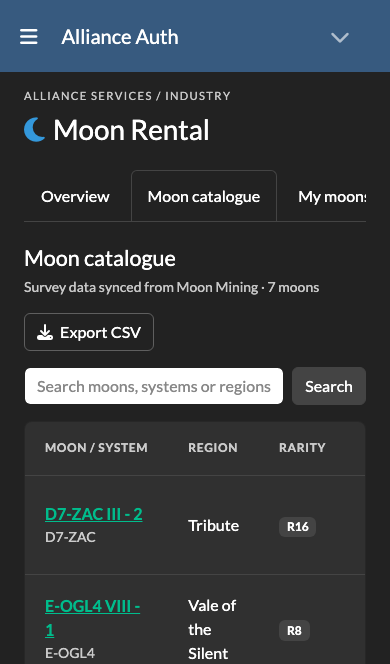
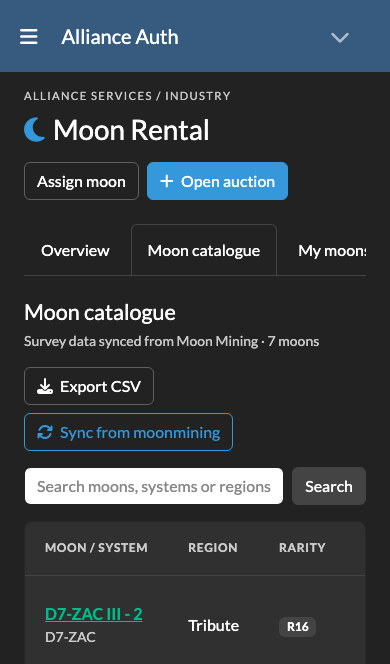
Restrict moon catalogue and CSV export to managers and admins (#6)

diff --git a/moon_rental/templates/moon_rental/auction.html b/moon_rental/templates/moon_rental/auction.html
@@ -4,6 +4,6 @@
 <div class="d-flex justify-content-between align-items-start flex-wrap gap-3 mt-3 mb-4"><div><span class="badge {% if bidding_open %}text-bg-success{% else %}text-bg-secondary{% endif %} mb-2">{% if bidding_open %}Bidding open{% elif auction.settled_at %}Awarded{% else %}Bidding closed · awaiting settlement{% endif %}</span><h2 class="h3">{{ auction.title }}</h2><p class="text-body-secondary mb-0">{{ auction.duration_months }} months · {{ auction.get_billing_mode_display }} · Minimum {{ auction.minimum_bid|isk }} ISK</p></div><div class="card"><div class="card-body py-2 px-3"><div class="small text-body-secondary">Bidding closes</div><strong>{{ auction.ends_at|date:"d M Y · H:i" }} UTC</strong></div></div></div>
 <div class="alert alert-info small">Each moon is awarded to its highest bidder at close. Your bid is {% if auction.billing_mode == 'monthly' %}the monthly rent{% else %}the total rent for the full term{% endif %}. Bids are binding and cannot be withdrawn.</div>
 <form method="get" class="card mb-4"><div class="card-body p-4"><h3 class="h5 mb-3">Find moons</h3>{% include "moon_rental/moon_filters.html" %}<div class="small text-body-secondary mt-3">{{ lots.paginator.count }} moon{{ lots.paginator.count|pluralize }} match</div></div></form>
-<div class="row g-4">{% for row in rows %}<div class="col-md-6 col-xxl-4"><article class="card h-100"><div class="card-body p-4"><div class="d-flex justify-content-between align-items-center mb-2"><span class="small text-body-secondary">{{ row.lot.moon.region }}</span><span class="badge text-bg-secondary">R{{ row.lot.moon.rarity }}</span></div><h3 class="h5 mb-1"><a class="text-reset" href="{% url 'moon_rental:moon' row.lot.moon.pk %}">{{ row.lot.moon.name }}</a></h3><div class="small text-body-secondary mb-4">{{ row.lot.moon.solar_system }}{% if row.lot.moon.constellation %} · {{ row.lot.moon.constellation }}{% endif %} · Survey composition</div>{% include "moon_rental/composition.html" with moon=row.lot.moon %}<div class="mr-bid-box rounded border p-3 mt-4"><div class="small text-body-secondary">{% if auction.settled_at %}Winning bid{% else %}Highest bid{% endif %}</div><div class="h4 mr-numeric mt-1 mb-1">{% if row.top %}{{ row.top.amount|compact_isk }} <small class="fs-6">ISK</small>{% else %}No bids yet{% endif %}</div>{% if row.top %}<div class="small text-body-secondary mr-numeric mb-2">{{ row.top.amount|isk }} ISK</div>{% endif %}<div class="small">{% if row.top %}<i class="fas fa-user me-1 text-body-secondary" aria-hidden="true"></i>{{ row.top.bidder }}{% else %}Be the first to bid{% endif %}<span class="text-body-secondary float-end">{{ row.count }} bid{{ row.count|pluralize }}</span></div></div>{% if bidding_open %}<form method="post" action="{% url 'moon_rental:bid' row.lot.pk %}?{% moon_query %}" class="mt-3">{% csrf_token %}<label class="form-label small" for="bid-{{ row.lot.pk }}">Your {% if auction.billing_mode == 'monthly' %}monthly {% endif %}bid (ISK)</label><div class="input-group"><input class="form-control mr-numeric" id="bid-{{ row.lot.pk }}" name="amount" type="number" data-isk-input inputmode="decimal" min="{{ auction.minimum_bid }}" step="0.01" placeholder="Enter amount" required><button class="btn btn-info" type="submit">Place bid</button></div></form>{% endif %}</div></article></div>{% empty %}<div class="col-12"><p class="text-body-secondary">No moons match these filters. Clear or adjust the filters to browse again.</p></div>{% endfor %}</div>
+<div class="row g-4">{% for row in rows %}<div class="col-md-6 col-xxl-4"><article class="card h-100"><div class="card-body p-4"><div class="d-flex justify-content-between align-items-center mb-2"><span class="small text-body-secondary">{{ row.lot.moon.region }}</span><span class="badge text-bg-secondary">R{{ row.lot.moon.rarity }}</span></div><h3 class="h5 mb-1">{% if rental_manager %}<a class="text-reset" href="{% url 'moon_rental:moon' row.lot.moon.pk %}">{{ row.lot.moon.name }}</a>{% else %}{{ row.lot.moon.name }}{% endif %}</h3><div class="small text-body-secondary mb-4">{{ row.lot.moon.solar_system }}{% if row.lot.moon.constellation %} · {{ row.lot.moon.constellation }}{% endif %} · Survey composition</div>{% include "moon_rental/composition.html" with moon=row.lot.moon %}<div class="mr-bid-box rounded border p-3 mt-4"><div class="small text-body-secondary">{% if auction.settled_at %}Winning bid{% else %}Highest bid{% endif %}</div><div class="h4 mr-numeric mt-1 mb-1">{% if row.top %}{{ row.top.amount|compact_isk }} <small class="fs-6">ISK</small>{% else %}No bids yet{% endif %}</div>{% if row.top %}<div class="small text-body-secondary mr-numeric mb-2">{{ row.top.amount|isk }} ISK</div>{% endif %}<div class="small">{% if row.top %}<i class="fas fa-user me-1 text-body-secondary" aria-hidden="true"></i>{{ row.top.bidder }}{% else %}Be the first to bid{% endif %}<span class="text-body-secondary float-end">{{ row.count }} bid{{ row.count|pluralize }}</span></div></div>{% if bidding_open %}<form method="post" action="{% url 'moon_rental:bid' row.lot.pk %}?{% moon_query %}" class="mt-3">{% csrf_token %}<label class="form-label small" for="bid-{{ row.lot.pk }}">Your {% if auction.billing_mode == 'monthly' %}monthly {% endif %}bid (ISK)</label><div class="input-group"><input class="form-control mr-numeric" id="bid-{{ row.lot.pk }}" name="amount" type="number" data-isk-input inputmode="decimal" min="{{ auction.minimum_bid }}" step="0.01" placeholder="Enter amount" required><button class="btn btn-info" type="submit">Place bid</button></div></form>{% endif %}</div></article></div>{% empty %}<div class="col-12"><p class="text-body-secondary">No moons match these filters. Clear or adjust the filters to browse again.</p></div>{% endfor %}</div>
 {% include "moon_rental/auction_pagination.html" %}
 {% endblock %}

diff --git a/moon_rental/templates/moon_rental/rentals.html b/moon_rental/templates/moon_rental/rentals.html
@@ -1,2 +1,2 @@
 {% extends "moon_rental/base.html" %}{% load moon_rental %}
-{% block rental_content %}<h2 class="h4">{{ title }}</h2><p class="text-body-secondary small mb-4">Your lease terms, award history and payment schedule.</p><div class="card"><div class="table-responsive"><table class="table align-middle mb-0"><thead><tr><th>Moon</th>{% if rental_manager %}<th>Renter</th>{% endif %}<th>Rent</th><th>Lease period (UTC)</th><th>Source</th><th>Status</th>{% if rental_admin %}<th>Admin</th>{% endif %}</tr></thead><tbody>{% for rental in rentals %}<tr><td><a href="{% url 'moon_rental:moon' rental.moon_id %}">{{ rental.moon.name }}</a><div class="small text-body-secondary">{{ rental.moon.region }}</div></td>{% if rental_manager %}<td>{{ rental.renter }}</td>{% endif %}<td class="mr-numeric">{{ rental.price|isk }} ISK<div class="small text-body-secondary">{{ rental.get_billing_mode_display }}</div></td><td class="small">{{ rental.starts_on|date:"d M Y" }} → {{ rental.ends_on|date:"d M Y" }}<div class="text-body-secondary">End date exclusive</div></td><td class="small">{% if rental.auction_lot %}<a href="{% url 'moon_rental:auction' rental.auction_lot.auction_id %}">Auction award</a>{% else %}Direct assignment{% endif %}</td><td>{% if rental.ended_at or rental.ends_on <= now.date %}<span class="badge text-bg-secondary">Ended</span>{% else %}<span class="badge text-bg-success">Active</span>{% endif %}</td>{% if rental_admin %}<td>{% if not rental.ended_at and rental.ends_on > now.date %}<a class="btn btn-sm btn-outline-warning" href="{% url 'moon_rental:end_assignment' rental.pk %}">End / correct</a>{% endif %}</td>{% endif %}</tr>{% empty %}<tr><td colspan="7" class="py-5 text-center text-body-secondary">No rentals yet. Moons you win will appear here after settlement.</td></tr>{% endfor %}</tbody></table></div></div>{% include "moon_rental/pagination.html" with items=rentals %}{% endblock %}
+{% block rental_content %}<h2 class="h4">{{ title }}</h2><p class="text-body-secondary small mb-4">Your lease terms, award history and payment schedule.</p><div class="card"><div class="table-responsive"><table class="table align-middle mb-0"><thead><tr><th>Moon</th>{% if rental_manager %}<th>Renter</th>{% endif %}<th>Rent</th><th>Lease period (UTC)</th><th>Source</th><th>Status</th>{% if rental_admin %}<th>Admin</th>{% endif %}</tr></thead><tbody>{% for rental in rentals %}<tr><td>{% if rental_manager %}<a href="{% url 'moon_rental:moon' rental.moon_id %}">{{ rental.moon.name }}</a>{% else %}{{ rental.moon.name }}{% endif %}<div class="small text-body-secondary">{{ rental.moon.region }}</div></td>{% if rental_manager %}<td>{{ rental.renter }}</td>{% endif %}<td class="mr-numeric">{{ rental.price|isk }} ISK<div class="small text-body-secondary">{{ rental.get_billing_mode_display }}</div></td><td class="small">{{ rental.starts_on|date:"d M Y" }} → {{ rental.ends_on|date:"d M Y" }}<div class="text-body-secondary">End date exclusive</div></td><td class="small">{% if rental.auction_lot %}<a href="{% url 'moon_rental:auction' rental.auction_lot.auction_id %}">Auction award</a>{% else %}Direct assignment{% endif %}</td><td>{% if rental.ended_at or rental.ends_on <= now.date %}<span class="badge text-bg-secondary">Ended</span>{% else %}<span class="badge text-bg-success">Active</span>{% endif %}</td>{% if rental_admin %}<td>{% if not rental.ended_at and rental.ends_on > now.date %}<a class="btn btn-sm btn-outline-warning" href="{% url 'moon_rental:end_assignment' rental.pk %}">End / correct</a>{% endif %}</td>{% endif %}</tr>{% empty %}<tr><td colspan="7" class="py-5 text-center text-body-secondary">No rentals yet. Moons you win will appear here after settlement.</td></tr>{% endfor %}</tbody></table></div></div>{% include "moon_rental/pagination.html" with items=rentals %}{% endblock %}

diff --git a/moon_rental/templates/moon_rental/base.html b/moon_rental/templates/moon_rental/base.html
@@ -10,7 +10,7 @@
     </div>
     <nav class="nav nav-tabs mb-4" aria-label="Moon Rental">
         <a class="nav-link {% if request.resolver_match.url_name == 'index' %}active{% endif %}" href="{% url 'moon_rental:index' %}">Overview</a>
-        <a class="nav-link {% if request.resolver_match.url_name == 'moons' or request.resolver_match.url_name == 'moon' %}active{% endif %}" href="{% url 'moon_rental:moons' %}">Moon catalogue</a>
+        {% if rental_manager %}<a class="nav-link {% if request.resolver_match.url_name == 'moons' or request.resolver_match.url_name == 'moon' %}active{% endif %}" href="{% url 'moon_rental:moons' %}">Moon catalogue</a>{% endif %}
         <a class="nav-link {% if request.resolver_match.url_name == 'my_moons' %}active{% endif %}" href="{% url 'moon_rental:my_moons' %}">My moons</a>
         <a class="nav-link {% if request.resolver_match.url_name == 'invoices' %}active{% endif %}" href="{% url 'moon_rental:invoices' %}">Invoices</a>
         {% if rental_manager %}<a class="nav-link {% if request.resolver_match.url_name == 'rentals' %}active{% endif %}" href="{% url 'moon_rental:rentals' %}">Assignments</a>{% endif %}

diff --git a/tests/test_catalogue_export.py b/tests/test_catalogue_export.py
@@ -21,7 +21,7 @@ def read_export(response):
     return list(csv.DictReader(io.StringIO(content.decode("utf-8-sig"))))
 
 
-@pytest.mark.parametrize("user_fixture", ["pilot", "manager", "admin_user"])
+@pytest.mark.parametrize("user_fixture", ["manager", "admin_user"])
 def test_catalogue_users_can_download_csv(client, request, moon, user_fixture):
     client.force_login(request.getfixturevalue(user_fixture))
     response = client.get(reverse("moon_rental:moon_export"))
@@ -37,12 +37,12 @@ def test_export_requires_catalogue_access(client, moon):
     assert client.get(url).status_code == 403
 
 
-def test_csv_preserves_unicode_quotes_precision_and_utc(client, pilot, moon):
+def test_csv_preserves_unicode_quotes_precision_and_utc(client, manager, moon):
     moon.name = 'Étoile, "Alpha"\nIV - 12'
     moon.estimated_value = Decimal("123456789012.34")
     moon.composition = [{"type_id": 45506, "name": 'Ore, "rare"', "percent": 35.1234}]
     moon.save()
-    client.force_login(pilot)
+    client.force_login(manager)
     with override("fr"), timezone.override("Europe/Brussels"):
         rows = read_export(client.get(reverse("moon_rental:moon_export")))
     assert rows == [
@@ -61,11 +61,11 @@ def test_csv_preserves_unicode_quotes_precision_and_utc(client, pilot, moon):
     ]
 
 
-def test_export_includes_every_page_and_unknown_survey_values(client, pilot, moon):
+def test_export_includes_every_page_and_unknown_survey_values(client, manager, moon):
     Moon.objects.bulk_create(
         [Moon(id=i, name=f"Extra {i:02}", synced_at=timezone.now()) for i in range(100, 145)]
     )
-    client.force_login(pilot)
+    client.force_login(manager)
     page = client.get(reverse("moon_rental:moons"))
     assert len(page.context["moons"]) == 40
     rows = read_export(client.get(reverse("moon_rental:moon_export"), {"page": "2"}))
@@ -78,17 +78,17 @@ def test_export_includes_every_page_and_unknown_survey_values(client, pilot, moo
 
 
 @pytest.mark.parametrize("query", ["J-A5QD IV", "j-a5qd", "  Vale of the Silent  ", "no match"])
-def test_export_matches_catalogue_search(client, pilot, moon, query):
+def test_export_matches_catalogue_search(client, manager, moon, query):
     Moon.objects.create(id=2, name="Other moon", region="Tribute", synced_at=timezone.now())
-    client.force_login(pilot)
+    client.force_login(manager)
     data = {"q": query}
     page = client.get(reverse("moon_rental:moons"), data)
     rows = read_export(client.get(reverse("moon_rental:moon_export"), data))
     assert [row["Moon ID"] for row in rows] == [str(m.pk) for m in page.context["moons"]]
 
 
-def test_empty_export_still_contains_column_headers(client, pilot):
-    client.force_login(pilot)
+def test_empty_export_still_contains_column_headers(client, manager):
+    client.force_login(manager)
     response = client.get(reverse("moon_rental:moon_export"))
     content = b"".join(response.streaming_content).decode("utf-8-sig")
     rows = list(csv.reader(io.StringIO(content)))
@@ -104,7 +104,7 @@ def test_export_status_matches_catalogue(client, pilot, manager, wallet, auction
     Moon.objects.create(id=4, name="Free moon", synced_at=timezone.now())
     # Existing leases and auction reservations take precedence over source availability.
     Moon.objects.filter(pk__in=[moon.pk, rented.pk]).update(available=False)
-    client.force_login(pilot)
+    client.force_login(manager)
     rows = read_export(client.get(reverse("moon_rental:moon_export")))
     assert {row["Moon ID"]: row["Status"] for row in rows} == {
         str(moon.pk): "In auction",
@@ -117,22 +117,22 @@ def test_export_status_matches_catalogue(client, pilot, manager, wallet, auction
 @pytest.mark.parametrize(
     "text", ["=1+1", "+1+1", "-1+1", "@SUM(1)", "  =1", "\tname", "\rname", "\nname"]
 )
-def test_formula_like_text_is_escaped(client, pilot, moon, text):
+def test_formula_like_text_is_escaped(client, manager, moon, text):
     moon.name = text
     moon.solar_system = text
     moon.region = text
     moon.constellation = text
     moon.composition = [{"type_id": 45506, "name": text, "percent": 35}]
     moon.save()
-    client.force_login(pilot)
+    client.force_login(manager)
     row = read_export(client.get(reverse("moon_rental:moon_export")))[0]
     for column in ("Moon", "Solar system", "Region", "Constellation"):
         assert row[column] == "'" + text
     assert row["Survey composition"] == f"'{text}: 35%"
 
 
-def test_export_link_preserves_search_without_page(client, pilot, moon):
-    client.force_login(pilot)
+def test_export_link_preserves_search_without_page(client, manager, moon):
+    client.force_login(manager)
     response = client.get(reverse("moon_rental:moons"), {"q": "J-A5QD & +", "page": "2"})
     url = reverse("moon_rental:moon_export") + "?q=J-A5QD%20%26%20%2B"
     assert f'href="{url}"'.encode() in response.content

diff --git a/tests/test_catalogue_permissions.py b/tests/test_catalogue_permissions.py
@@ -1,0 +1,77 @@
+import pytest
+from django.contrib.auth.models import User
+from django.urls import reverse
+
+from moon_rental.services.rentals import assign_moon
+
+pytestmark = pytest.mark.django_db
+
+
+def catalogue_url(name, moon):
+    return reverse(f"moon_rental:{name}", args=[moon.pk] if name == "moon" else [])
+
+
+@pytest.mark.parametrize("name", ["moons", "moon", "moon_export"])
+@pytest.mark.parametrize("role", ["manager", "admin_user", "superuser"])
+def test_catalogue_is_accessible_to_managers_and_admins(client, request, moon, name, role):
+    user = (
+        User.objects.create_superuser("superuser", password=None)
+        if role == "superuser"
+        else request.getfixturevalue(role)
+    )
+    client.force_login(user)
+    response = client.get(catalogue_url(name, moon))
+    assert response.status_code == 200
+    response.close()
+
+
+@pytest.mark.parametrize("name", ["moons", "moon", "moon_export"])
+@pytest.mark.parametrize("role", ["member", "staff", "outsider"])
+def test_catalogue_direct_urls_are_forbidden_without_manager_permission(
+    client, pilot, moon, name, role
+):
+    if role == "staff":
+        pilot.is_staff = True
+        pilot.save(update_fields=["is_staff"])
+    user = User.objects.create_user("outsider") if role == "outsider" else pilot
+    client.force_login(user)
+    url = catalogue_url(name, moon)
+    assert client.get(url).status_code == 403
+    assert client.post(url).status_code == 403
+
+
+@pytest.mark.parametrize("name", ["moons", "moon", "moon_export"])
+def test_anonymous_and_inactive_managers_cannot_access_catalogue(client, manager, moon, name):
+    url = catalogue_url(name, moon)
+    assert client.get(url).status_code == 302
+    manager.is_active = False
+    manager.save(update_fields=["is_active"])
+    client.force_login(manager)
+    assert client.get(url).status_code == 302
+
+
+@pytest.mark.parametrize("role", ["pilot", "manager", "admin_user"])
+def test_auction_catalogue_links_follow_permissions(client, request, auction, moon, role):
+    client.force_login(request.getfixturevalue(role))
+    response = client.get(reverse("moon_rental:auction", args=[auction.pk]))
+    assert response.status_code == 200
+    assert moon.name.encode() in response.content
+    assert b"Loparite" in response.content
+    for url in (reverse("moon_rental:moons"), reverse("moon_rental:moon", args=[moon.pk])):
+        assert (f'href="{url}"'.encode() in response.content) == (role != "pilot")
+    if role == "pilot":
+        assert b"Place bid" in response.content
+
+
+@pytest.mark.parametrize("role", ["pilot", "manager", "admin_user"])
+def test_personal_rentals_remain_accessible_with_appropriate_moon_links(
+    client, request, manager, wallet, moon, role
+):
+    user = request.getfixturevalue(role)
+    assign_moon(actor=manager, renter=user, moon_id=moon.pk, price="100", duration_months=1)
+    client.force_login(user)
+    response = client.get(reverse("moon_rental:my_moons"))
+    assert response.status_code == 200
+    assert moon.name.encode() in response.content
+    for url in (reverse("moon_rental:moons"), reverse("moon_rental:moon", args=[moon.pk])):
+        assert (f'href="{url}"'.encode() in response.content) == (role != "pilot")

diff --git a/moon_rental/views.py b/moon_rental/views.py
@@ -91,7 +91,7 @@ def catalogue_moons(request):
     return moons, query
 
 
-@access()
+@access(require_manager)
 def moon_list(request):
     moons, query = catalogue_moons(request)
     moons = moons.select_related("current_rental__renter", "reserved_lot__auction")
@@ -100,13 +100,13 @@ def moon_list(request):
     )
 
 
-@access()
+@access(require_manager)
 def moon_export(request):
     moons, _ = catalogue_moons(request)
     return moon_catalogue_csv(moons)
 
 
-@access()
+@access(require_manager)
 def moon_detail(request, moon_id):
     moon = get_object_or_404(Moon, pk=moon_id)
     lots = moon.lots.select_related("auction").filter(auction__settled_at=None)

diff --git a/README.md b/README.md
@@ -7,7 +7,7 @@ An Alliance Auth module for auctioning surveyed moons, managing leases and match
 ## Features
 
 - Admin-only synchronization of moon names, systems, regions, constellations, rarity, ore distribution and value estimates from `moonmining`. Source data is never modified. Removed moons cannot be offered again; existing leases remain accessible.
-- **Export CSV** on the moon catalogue downloads all moons matching the current search across every page. Members, managers and admins with catalogue access can export moon IDs, names, systems, regions, constellations, rarity, survey composition, exact estimated monthly ISK values, status and UTC sync times. Files use UTF-8 with a BOM for spreadsheet compatibility; formula-like text is escaped.
+- The moon catalogue, individual catalogue details and **Export CSV** are restricted to rental managers and admins. CSV downloads include all moons matching the current search across every page, with moon IDs, names, systems, regions, constellations, rarity, survey composition, exact estimated monthly ISK values, status and UTC sync times. Files use UTF-8 with a BOM for spreadsheet compatibility; formula-like text is escaped.
 - Managers open auctions for multiple available moons, choose a UTC deadline, term of 1–120 months, minimum bid and monthly (default) or single-payment billing.
 - Members see each moon's survey, highest bidder and bid amount. New bids must strictly exceed the current highest bid. Bids are binding; there is no withdrawal or early settlement endpoint.
 - Every ISK input shows a live compact preview, such as `1,2 b ISK`, while submitting the original exact amount. Previews use `k`, `m`, `b` and `t` for thousands, millions, billions and trillions.
@@ -72,8 +72,8 @@ Assign permissions to AA groups/states in Django admin:
 
 | Permission | Capabilities |
 | --- | --- |
-| `moon_rental.basic_access` | Browse moons, bid, see personal rentals and invoices |
-| `moon_rental.manage_rentals` | Member capabilities plus auctions, direct assignments and all invoices |
+| `moon_rental.basic_access` | View auction surveys, bid, see personal rentals and invoices |
+| `moon_rental.manage_rentals` | Member capabilities plus moon catalogue, moon details, CSV export, auctions, direct assignments and all invoices |
 | `moon_rental.administer_rentals` | Manager capabilities plus sync, wallets, assignment corrections and invoice voiding |
 
 Managers and admins inherit app capabilities; they do not need all three permissions. Merely being Django `is_staff` does not grant rental administration. Superusers have all capabilities. The app's Django admin model screens are read-only so assignments, money records and audit trails cannot be bypassed with ordinary model editing.

diff --git a/CHANGELOG.md b/CHANGELOG.md
@@ -2,6 +2,7 @@
 
 ## Unreleased
 
+- Restrict the moon catalogue, individual catalogue details and CSV export to rental managers and admins; members retain auction bidding, personal rentals and invoices.
 - Export the moon catalogue to CSV, including all search results, survey composition, exact estimated values and rental/auction status.
 - Add combined region, constellation, rarity and survey-ore filters and moon/system search to auction creation, direct assignment and bidding.
 - Paginate moon choices, retain selections and terms across filters/pages, and support bulk page selection.
